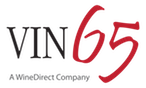
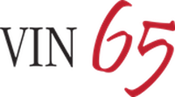
update style to match POS

diff --git a/app/assets/stylesheets/casino_and_overrides.scss b/app/assets/stylesheets/casino_and_overrides.scss
@@ -1,10 +1,55 @@
 // Default CASino settings
 
-$buttonColor: #990000;
-// $buttonSecondaryColor: #c2c2c2;
+//$buttonSecondaryColor: #BCBCBD;
 $logo: image-path("vin65.png");
 $logoRetina: image-path("vin65.png");
-$logoWidth: 146px;
+$logoWidth: 200px;
 $logoHeight: 88px;
 
 @import 'casino';
+
+body {
+  background-color: #252524;
+}
+
+*,
+*:before,
+*:after {
+  -webkit-touch-callout: none;
+  -webkit-tap-highlight-color: transparent;
+}
+
+.box, .button, input[type=text], input[type=password] {
+  border-radius: 5px;
+}
+
+.button {
+  background: #88ba60;
+  border: 1px solid rgba(0,0,0,.2);
+
+  &:hover {
+    background-color: #73a849;
+    border-color: #5d883b;
+  }
+}
+
+.login.box {
+    button {
+      width: 100%;
+    }
+
+  @media only screen and (max-width: 600px)  {
+    .logo {
+      height: 100px;
+    }
+  }
+}
+
+#flash_error {
+  background-color: #f5cf47;
+  border-left: 5px solid #cba10b;
+  color: #000;
+  height: 40px;
+  line-height: 40px;
+}
+
